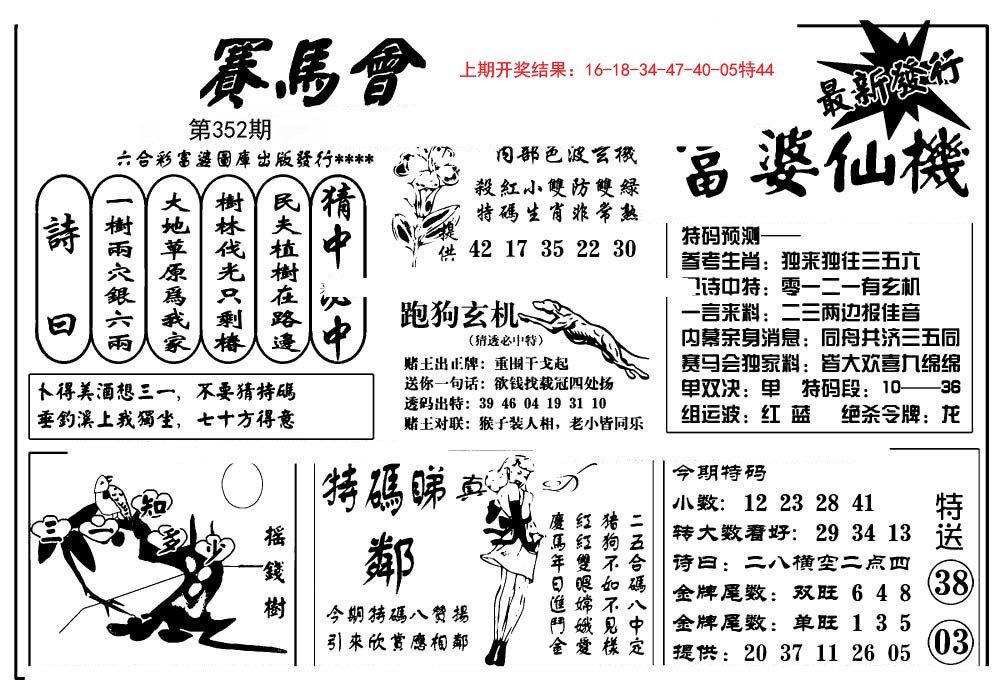
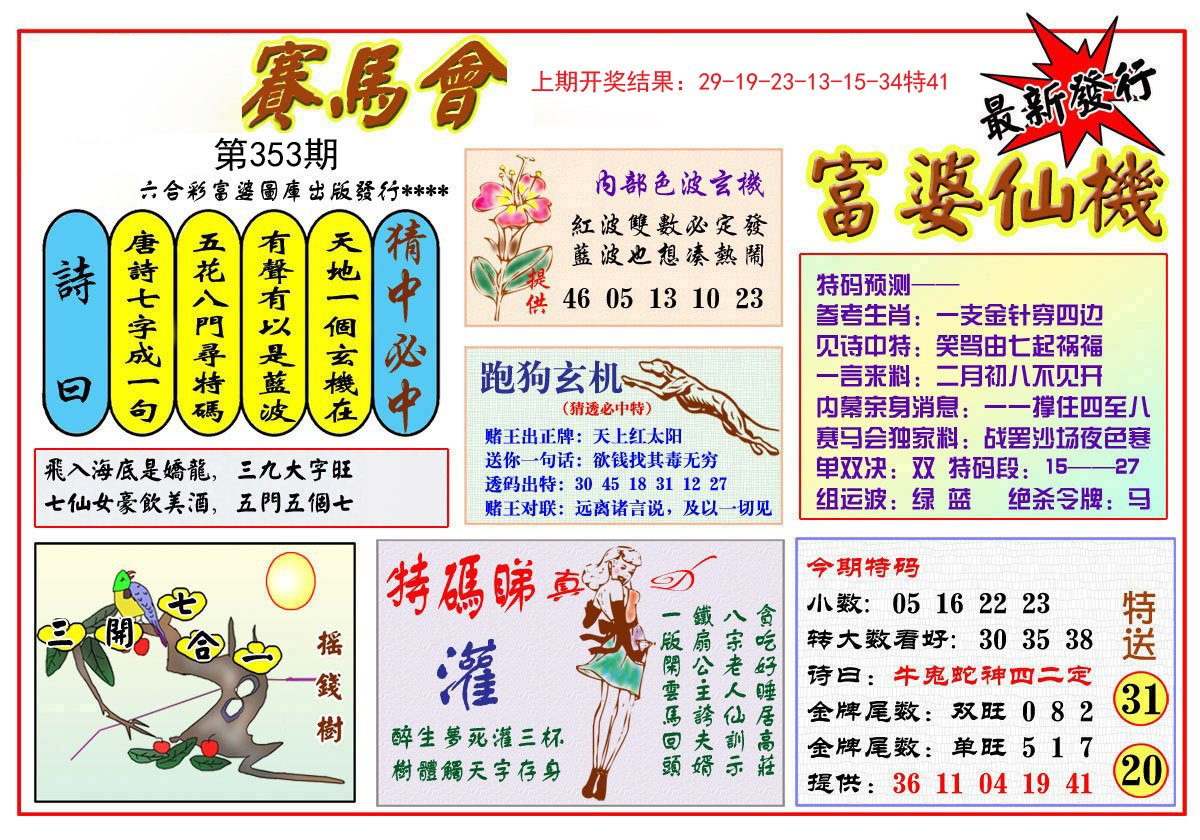
Update:  2023.12.19 11:20:52

diff --git a/Script/Src/xjw/顶部六肖.js b/Script/Src/xjw/顶部六肖.js
@@ -9,6 +9,50 @@ document.writeln("");
 
 
 
+document.writeln("");
+document.writeln(" <table border=\'1\' width=\'100%\' height=\'30\' bordercolor=\'#DDDDDD\' class=\'qxtable\' style=\'box-sizing: border-box; table-layout: fixed; font-weight: bold; word-wrap: break-word; word-break: break-all; text-align: center; color: rgb(255, 255, 255); font-family: \'Microsoft YaHei\', Arial, Helvetica, sans-serif; font-size: 14px; font-style: normal; font-variant-ligatures: normal; font-variant-caps: normal; letter-spacing: normal; orphans: 2; text-indent: 0px; text-transform: none; white-space: normal; widows: 2; word-spacing: 0px; -webkit-text-stroke-width: 0px; text-decoration-style: initial; text-decoration-color: initial; border-collapse: collapse; border: 0px none; margin: 0px; padding: 0px; background: rgb(255, 255, 255)\'>");
+document.writeln("	<tbody style=\'padding: 0px; margin: 0px; border: 0px; box-sizing: border-box;\'>");
+document.writeln("		<tr style=\'padding: 0px; margin: 0px; border: 0px; box-sizing: border-box; height: 30px;\'>");
+document.writeln("			<td width=\'100%\' height=\'27\' bordercolor=\'#DEDEDE\' bgcolor=\'#FF99FF\' style=\'padding: 0px; margin: 0px; border: 1px solid rgb(101, 101, 101); box-sizing: border-box; text-overflow: ellipsis; font-size: 16px; color: rgb(0, 0, 0);\'>");
+document.writeln("			352期<font style=\'padding: 0px; margin: 0px; border: 0px; box-sizing: border-box;\'><b style=\'padding: 0px; margin: 0px; border: 0px; box-sizing: border-box;\'>:玄机网86281.com</b></font></td>");
+document.writeln("		</tr>");
+document.writeln("		<tr style=\'padding: 0px; margin: 0px; border: 0px; box-sizing: border-box; height: 30px;\'>");
+document.writeln("			<td width=\'100%\' height=\'33\' bordercolor=\'#DEDEDE\' bgcolor=\'#FFFFFF\' style=\'padding: 0px; margin: 0px; border: 1px solid rgb(101, 101, 101); box-sizing: border-box; text-overflow: ellipsis; font-size: 16px; color: rgb(0, 0, 0); text-align: left;\'>");
+document.writeln("			<b style=\'padding: 0px; margin: 0px; border: 0px; box-sizing: border-box;\'>");
+document.writeln("			<font color=\'#000000\' style=\'padding: 0px; margin: 0px; border: 0px; box-sizing: border-box;\'>");
+document.writeln("			六肖:</font></b><b style=\'box-sizing: border-box\'><font color=\'#FF0000\' style=\'box-sizing: border-box\'>虎狗牛龙兔猴</font></b></td>");
+document.writeln("		</tr>");
+document.writeln("		</tr>");
+document.writeln("		<tr style=\'padding: 0px; margin: 0px; border: 0px; box-sizing: border-box; height: 30px;\'>");
+document.writeln("			<td width=\'100%\' height=\'30\' bordercolor=\'#DEDEDE\' bgcolor=\'#FFFFFF\' style=\'padding: 0px; margin: 0px; border: 1px solid rgb(101, 101, 101); box-sizing: border-box; text-overflow: ellipsis; font-size: 16px; color: rgb(0, 0, 0); text-align: left;\'>");
+document.writeln("			<b style=\'padding: 0px; margin: 0px; border: 0px; box-sizing: border-box;\'>");
+document.writeln("			<font color=\'#000000\' style=\'padding: 0px; margin: 0px; border: 0px; box-sizing: border-box;\'>");
+document.writeln("			三肖:</font></b><b style=\'box-sizing: border-box\'><font color=\'#FF0000\' style=\'padding: 0px; margin: 0px; border: 0px; box-sizing: border-box;\'>虎狗牛</font></b><b style=\'padding: 0px; margin: 0px; border: 0px; box-sizing: border-box;\'><font color=\'#FF0000\' style=\'padding: 0px; margin: 0px; border: 0px; box-sizing: border-box;\'>(</font><font color=\'#FF00FF\' style=\'padding: 0px; margin: 0px; border: 0px; box-sizing: border-box;\'>快!</font><font color=\'#008000\' style=\'padding: 0px; margin: 0px; border: 0px; box-sizing: border-box;\'>稳!</font><font color=\'#800000\' style=\'padding: 0px; margin: 0px; border: 0px; box-sizing: border-box;\'>准!</font><font color=\'#FF0000\' style=\'padding: 0px; margin: 0px; border: 0px; box-sizing: border-box;\'>)</font></b></td>");
+document.writeln("		</tr>");
+document.writeln("		<tr style=\'padding: 0px; margin: 0px; border: 0px; box-sizing: border-box; height: 30px;\'>");
+document.writeln("			<td width=\'100%\' height=\'30\' bordercolor=\'#DEDEDE\' bgcolor=\'#FFFFFF\' style=\'padding: 0px; margin: 0px; border: 1px solid rgb(101, 101, 101); box-sizing: border-box; text-overflow: ellipsis; font-size: 16px; color: rgb(0, 0, 0); text-align: left;\'>");
+document.writeln("			<b style=\'padding: 0px; margin: 0px; border: 0px; box-sizing: border-box;\'>");
+document.writeln("			<font color=\'#000000\' style=\'padding: 0px; margin: 0px; border: 0px; box-sizing: border-box;\'>");
+document.writeln("			12码:</font><font color=\'#FF0000\'></span>14 38 06 30 03 39 12 48 13 49 08 32</font></b></td>");
+document.writeln("		</tr>");
+document.writeln("				<tr style=\'padding: 0px; margin: 0px; border: 0px; box-sizing: border-box; height: 30px;\'>");
+document.writeln("			<td width=\'100%\' height=\'30\' bordercolor=\'#DEDEDE\' bgcolor=\'#FFFFFF\' style=\'padding: 0px; margin: 0px; border: 1px solid rgb(101, 101, 101); box-sizing: border-box; text-overflow: ellipsis; font-size: 16px; color: rgb(0, 0, 0); text-align: left;\'>");
+document.writeln("			<b style=\'padding: 0px; margin: 0px; border: 0px; box-sizing: border-box;\'>");
+document.writeln("			<font color=\'#000000\' style=\'padding: 0px; margin: 0px; border: 0px; box-sizing: border-box;\'>");
+document.writeln("			六码:</font><font color=\'#FF0000\'></span>14 38 06 30 03 39</font></b></td>");
+document.writeln("		</tr>");
+document.writeln("");
+document.writeln("		<tr style=\'padding: 0px; margin: 0px; border: 0px; box-sizing: border-box; height: 30px;\'>");
+document.writeln("");
+document.writeln("");
+document.writeln("			<td width=\'100%\' height=\'30\' bordercolor=\'#DEDEDE\' bgcolor=\'#FFFFFF\' style=\'padding: 0px; margin: 0px; border: 1px solid rgb(101, 101, 101); box-sizing: border-box; text-overflow: ellipsis; font-size: 16px; color: rgb(0, 0, 0); text-align: left;\'>");
+document.writeln("			<b style=\'padding: 0px; margin: 0px; border: 0px; box-sizing: border-box;\'>");
+document.writeln("			<font color=\'#000000\' style=\'padding: 0px; margin: 0px; border: 0px; box-sizing: border-box;\'>");
+document.writeln("			三码:</font></b><font color=\'#FF0000\'>14 38 06</span></font></td>");
+document.writeln("		</table>");
+document.writeln("		");
+document.writeln("		");
+document.writeln("		");
 
 
 

diff --git a/Script/Src/xjw/杀两肖图.js b/Script/Src/xjw/杀两肖图.js
@@ -55,14 +55,33 @@ document.writeln("");
 document.writeln("");
 document.writeln("		");
 
+
 document.writeln("	<!--开始-->");
 document.writeln("				<tr style=\'box-sizing: border-box;\'>");
 document.writeln("					<td height=\'40\' style=\'box-sizing: border-box;\'>");
 document.writeln("			<p align=\'center\' style=\'box-sizing: border-box; padding: 0px; margin: 0px;\'>");
 document.writeln("			<font size=\'4\' style=\'margin: 0px; padding: 0px;\'>");
-document.writeln("			352期玄机网禁两肖<font color=\'#FF0000\'>【羊鼠】</font>特开<font color=\'#0000FF\'>？00</font>准<br>");
-document.writeln("			352期澳门杀两肖图<font color=\'#FF0000\'>【更新】</font>特开<font color=\'#0000FF\'>？00</font>准<br>");
-document.writeln("			352期澳门图库禁肖<font color=\'#FF0000\'>【更新】</font>特开<font color=\'#0000FF\'>？00</font>准</font></font></p></td>");
+document.writeln("			353期玄机网禁两肖<font color=\'#FF0000\'>【兔马】</font>特开<font color=\'#0000FF\'>？00</font>准<br>");
+document.writeln("			353期澳门杀两肖图<font color=\'#FF0000\'>【更新】</font>特开<font color=\'#0000FF\'>？00</font>准<br>");
+document.writeln("			353期澳门图库禁肖<font color=\'#FF0000\'>【更新】</font>特开<font color=\'#0000FF\'>？00</font>准</font></font></p></td>");
+document.writeln("		</tr>");
+document.writeln("<!--推广-->");
+document.writeln("				<tr style=\'box-sizing: border-box;\'>");
+document.writeln("					<td height=\'40\' style=\'box-sizing: border-box;\' bgcolor=\'#FFFF00\'>");
+document.writeln("			<p align=\'center\' style=\'box-sizing: border-box; padding: 0px; margin: 0px;\'>");
+document.writeln("			<a target=\'_blank\' href=\'https://j.1999xz.com:1999/\' style=\'text-decoration: none\'><img src=/yyy123.gif style=\'width:20px\' height=\'19\'><span style=font-family:楷体;color:#00f><font style=\'font-size: 15pt\'>点击投注澳门六合彩</font></span><span style=font-family:楷体;font-size:17pt;><font color=\'#FF0000\'>1999.cc</font></span></a></strong>");
+document.writeln("</p></td></tr>");
+document.writeln("<!--结束-->	");
+
+
+document.writeln("	<!--开始-->");
+document.writeln("				<tr style=\'box-sizing: border-box;\'>");
+document.writeln("					<td height=\'40\' style=\'box-sizing: border-box;\'>");
+document.writeln("			<p align=\'center\' style=\'box-sizing: border-box; padding: 0px; margin: 0px;\'>");
+document.writeln("			<font size=\'4\' style=\'margin: 0px; padding: 0px;\'>");
+document.writeln("			352期玄机网禁两肖<font color=\'#FF0000\'>【羊鼠】</font>特开<font color=\'#0000FF\'>猪41</font>准<br>");
+document.writeln("			352期澳门杀两肖图<font color=\'#FF0000\'>【蛇龙】</font>特开<font color=\'#0000FF\'>猪41</font>准<br>");
+document.writeln("			352期澳门图库禁肖<font color=\'#FF0000\'>【猪龙】</font>特开<font color=\'#0000FF\'>猪41</font>准</font></font></p></td>");
 document.writeln("		</tr>");
 document.writeln("<!--推广-->");
 document.writeln("				<tr style=\'box-sizing: border-box;\'>");

diff --git a/Script/Src/xjw/36码.js b/Script/Src/xjw/36码.js
@@ -35,7 +35,21 @@ document.writeln("");
 document.writeln("");
 
 
-
+document.writeln("<!--开始-->");
+document.writeln("");
+document.writeln("	");
+document.writeln("	<table style=border-collapse:collapse border=0 width=100% cellpadding=0><tbody><tr><td style=\'border:1px dotted olive\'><p style=line-height:200% align=center><span style=font-family:Verdana><strong>");
+document.writeln("		<font color=\'#FF5050\'>353期:特围36码---开:？00准</font><span style=color:maroon><br></span>");
+document.writeln("		<span style=color:#d50000>06.02.08.19.03.20.05.45.38.13.07.26</span><br>");
+document.writeln("		<span style=color:olive>42.40.15.49.39.18.04.32.14.09.30.31</span><br>");
+document.writeln("		<span style=color:#669>17.37.16.28.41.21.33.29.27.44.43.25</span></strong></span></table>");
+document.writeln("");
+document.writeln("		<table style=border-collapse:collapse border=0 width=100%><tbody><tr><td height=40><p style=text-align:center><strong>");
+document.writeln("			<img src=/img/569.gif width=20 height=19><font color=\'#000080\' size=\'4\'><span style=font-family:楷体;>澳门玄机网</span></font><span style=font-family:楷体;><font size=\'6\' color=\'#FF00FF\'>865</font><font size=\'6\' color=\'#008000\'>63</font></span><span style=font-family:楷体;font-size:17pt;><font color=\'#FF0000\'>.com</font></span></strong></tr></table>");
+document.writeln("	");
+document.writeln("<!--结束-->");
+document.writeln("");
+document.writeln("");
 
 
 document.writeln("<!--开始-->");
@@ -45,7 +59,7 @@ document.writeln("	<table style=border-collapse:collapse border=0 width=100% cel
 document.writeln("		<font color=\'#FF5050\'>352期:特围36码---开:猪41准</font><span style=color:maroon><br></span>");
 document.writeln("		<span style=color:#d50000>09.42.24.10.27.44.14.49.20.48.22.45</span><br>");
 document.writeln("		<span style=color:olive>16.38.30.21.15.08.02.29.32.06.26.23</span><br>");
-document.writeln("		<span style=color:#669>47.07.04.46.40.34.25.17.13.<span style='background-color: #FFFF00\'>41</span>.39.35</span></strong></span></table>");
+document.writeln("		<span style=color:#669>47.07.04.46.40.34.25.17.13.<span style=\'background-color: #FFFF00\'>41</span>.39.35</span></strong></span></table>");
 document.writeln("");
 document.writeln("		<table style=border-collapse:collapse border=0 width=100%><tbody><tr><td height=40><p style=text-align:center><strong>");
 document.writeln("			<img src=/img/569.gif width=20 height=19><font color=\'#000080\' size=\'4\'><span style=font-family:楷体;>澳门玄机网</span></font><span style=font-family:楷体;><font size=\'6\' color=\'#FF00FF\'>865</font><font size=\'6\' color=\'#008000\'>63</font></span><span style=font-family:楷体;font-size:17pt;><font color=\'#FF0000\'>.com</font></span></strong></tr></table>");

diff --git a/Script/Src/xjw/综合特码.js b/Script/Src/xjw/综合特码.js
@@ -63,8 +63,8 @@ document.writeln("	<td width=100% height=40><p align=left><b><font size=\'4\' fa
 document.writeln("	");
 
 
-
-document.writeln("352期团队十肖：龙鼠<span style='background-color: #FFFF00\'>猪</span>蛇猴鸡虎兔狗羊<br>");
+document.writeln("353期团队十肖：马猴蛇鸡狗猪兔鼠虎<br>");
+document.writeln("352期团队十肖：龙鼠<span style=\'background-color: #FFFF00\'>猴</span>蛇猴鸡虎兔狗羊<br>");
 document.writeln("351期团队十肖：狗兔鸡<span style=\'background-color: #FFFF00\'>猴</span>羊鼠虎马牛猪<br>");
 document.writeln("350期团队十肖：龙兔狗鼠<span style=\'background-color: #FFFF00\'>虎</span>蛇马猪牛羊<br>");
 document.writeln("349期团队十肖：猴蛇马猪牛龙兔狗<span style=\'background-color: #FFFF00\'>鼠</span>羊<br>");
@@ -121,8 +121,8 @@ document.writeln("");
 document.writeln("<br>");
 
 
-
-document.writeln("352期团队八尾：<span style='background-color: #FFFF00\'>1</span>2456789<br>");
+document.writeln("353期团队八尾：51437063<br>");
+document.writeln("352期团队八尾：<span style=\'background-color: #FFFF00\'>1</span>2456789<br>");
 document.writeln("351期团队八尾：123<span style=\'background-color: #FFFF00\'>4</span>6789<br>");
 document.writeln("350期团队八尾：012<span style=\'background-color: #FFFF00\'>4</span>6789<br>");
 document.writeln("349期团队八尾：012567<span style=\'background-color: #FFFF00\'>8</span>9<br>");
@@ -209,8 +209,8 @@ document.writeln("<br>");
 
 
 
-
-document.writeln("352期团队四头：023<span style='background-color: #FFFF00\'>4</span><br>");
+document.writeln("353期团队四头：1234<br>");
+document.writeln("352期团队四头：023<span style=\'background-color: #FFFF00\'>4</span><br>");
 document.writeln("351期团队四头：012<span style=\'background-color: #FFFF00\'>4</span><br>");
 document.writeln("350期团队四头：0<span style=\'background-color: #FFFF00\'>1</span>24<br>");
 document.writeln("349期团队四头：01<span style=\'background-color: #FFFF00\'>2</span>3<br>");
@@ -267,8 +267,8 @@ document.writeln("");
 document.writeln("<br>");
 document.writeln("");
 
-
-document.writeln("352期团队四行：金<span style='background-color: #FFFF00\'>水</span>火土<br>");
+document.writeln("353期团队四行：金水火木<br>");
+document.writeln("352期团队四行：金<span style=\'background-color: #FFFF00\'>水</span>火土<br>");
 document.writeln("350期团队四行：<span style=\'background-color: #FFFF00\'>木</span>水金火<br>");
 document.writeln("349期团队四行：金木<span style=\'background-color: #FFFF00\'>水</span>火<br>");
 document.writeln("348期团队四行：金水<span style=\'background-color: #FFFF00\'>火</span>土<br>");

diff --git a/Script/Src/xjw/阴阳12码.js b/Script/Src/xjw/阴阳12码.js
@@ -44,12 +44,24 @@ document.writeln("	");
 document.writeln("<!--开始-->");
 document.writeln("<table style=border-collapse:collapse border=1 width=100% bgcolor=#ffffff><tbody><tr>");
 document.writeln("	<td width=100% height=40><p align=center><font face=\'楷体\' size=\'4\'><b>");
+document.writeln("	<font color=\'#008000\'>353期</font><font color=\'#FF0000\'>☆【特爆六肖12码】☆</font></b></font></table>");
+document.writeln("");
+document.writeln("<table style=border-collapse:collapse border=1 width=100% bgcolor=#ffffff><tbody><tr>");
+document.writeln("	<td width=100% height=40><p align=center><b><font size=\'4\' face=\'楷体\'>阳肖【牛虎兔羊猴鸡】</font></b></font></table>");
+document.writeln("<table style=border-collapse:collapse border=1 width=100% bgcolor=#ffffff><tbody><tr>");
+document.writeln("	<td width=100% height=40><p align=center><b><font face=\'楷体\'>15.27.26.38.25.37.21.45.08.20.19.43</font></b></font></table>");
+document.writeln("		");
+document.writeln("	<!--结束-->");
+
+document.writeln("<!--开始-->");
+document.writeln("<table style=border-collapse:collapse border=1 width=100% bgcolor=#ffffff><tbody><tr>");
+document.writeln("	<td width=100% height=40><p align=center><font face=\'楷体\' size=\'4\'><b>");
 document.writeln("	<font color=\'#008000\'>352期</font><font color=\'#FF0000\'>☆【特爆六肖12码】☆</font></b></font></table>");
 document.writeln("");
 document.writeln("<table style=border-collapse:collapse border=1 width=100% bgcolor=#ffffff><tbody><tr>");
-document.writeln("	<td width=100% height=40><p align=center><b><font size=\'4\' face=\'楷体\'>阴肖【鼠龙蛇马狗<span style='background-color: #FFFF00\'>猪</span>】</font></b></font></table>");
+document.writeln("	<td width=100% height=40><p align=center><b><font size=\'4\' face=\'楷体\'>阴肖【鼠龙蛇马狗<span style=\'background-color: #FFFF00\'>猪</span>】</font></b></font></table>");
 document.writeln("<table style=border-collapse:collapse border=1 width=100% bgcolor=#ffffff><tbody><tr>");
-document.writeln("	<td width=100% height=40><p align=center><b><font face=\'楷体\'>16.40.12.36.11.23.22.46.06.42.05.<span style='background-color: #FFFF00\'>41</span></font></b></font></table>");
+document.writeln("	<td width=100% height=40><p align=center><b><font face=\'楷体\'>16.40.12.36.11.23.22.46.06.42.05.<span style=\'background-color: #FFFF00\'>41</span></font></b></font></table>");
 document.writeln("		");
 document.writeln("	<!--结束-->");
 

diff --git a/Script/Src/xjw/一字解特码.js b/Script/Src/xjw/一字解特码.js
@@ -23,8 +23,21 @@ document.writeln("		<td class=\'center f11 black l150\' align=\'center\'>");
 document.writeln("	");
 document.writeln("		<p>");
 document.writeln("	");
-document.writeln("		<span><font size=\'4\'>352期:<font color=\'#0000FF\'>一字解特码</font></font><font color=\'#FF00FF\' style=\'font-size: 20pt\'>【喝】</font><font size=\'4\'><span style=\'background-color: #FFFF00\'><font color=\'#0000FF\'>开猪41</font></span><font color=\'#008000\'><br>");
-document.writeln("		</font><font color=\'#006600\'>解特： 05 06 07 11 12 13 14 15 22 23 28 29 30 31 39 40 <span style='background-color: #FFFF00\'>41</span> 42 43</font></font></span></td></tr>");
+document.writeln("		<span><font size=\'4\'>353期:<font color=\'#0000FF\'>一字解特码</font></font><font color=\'#FF00FF\' style=\'font-size: 20pt\'>【猿】</font><font size=\'4\'><span style=\'background-color: #FFFF00\'><font color=\'#0000FF\'>开？00</font></span><font color=\'#008000\'><br>");
+document.writeln("		</font><font color=\'#006600\'>解特： 08 10 11 12 13 15 16 17 20 22 23 24 28 29 32 36 37 39 40</font></font></span></td></tr>");
+document.writeln("<!--结束-->");
+
+
+
+document.writeln("<!--开始-->");
+document.writeln("");
+document.writeln("	<tr>");
+document.writeln("		<td class=\'center f11 black l150\' align=\'center\'>");
+document.writeln("	");
+document.writeln("		<p>");
+document.writeln("	");
+document.writeln("		<span><font size=\'4\'>352期:<font color=\'#0000FF\'>一字解特码</font></font><font color=\'#FF00FF\' style=\'font-size: 20pt\'>【喝】</font><font size=\'4\'><span style=\'background-color: #FFFF00\'><font color=\'#0000FF\'>开？00</font></span><font color=\'#008000\'><br>");
+document.writeln("		</font><font color=\'#006600\'>解特： 05 06 07 11 12 13 14 15 22 23 28 29 30 31 39 40 <span style=\'background-color: #FFFF00\'>41</span> 42 43</font></font></span></td></tr>");
 document.writeln("<!--结束-->");
 
 

diff --git a/Script/Src/xjw/五字真言.js b/Script/Src/xjw/五字真言.js
@@ -27,7 +27,15 @@ document.writeln("");
 document.writeln("");
 document.writeln("<table border=\'1\' width=\'100%\' cellpadding=\'0\' cellspacing=\'0\' bordercolorlight=\'#FFFFFF\' bordercolordark=\'#FFFFFF\' bgcolor=\'#FFFFFF\'>");
 
-
+document.writeln("	<tr>");
+document.writeln("		<td class=\'center f11 black l150\' align=\'center\'>");
+document.writeln("	");
+document.writeln("		<p>");
+document.writeln("	");
+document.writeln("		<span><font size=\'4\'>353期:<font color=\'#008000\'>【正版五字真言】</font><font color=\'#FF0000\'>开？00</font><font color=\'#008000\'><br>");
+document.writeln("		</font><font color=\'#FF00FF\'>【→四八左右←】</font><font color=\'#6600CC\'><br>");
+document.writeln("		</font><font color=\'#0000FF\'>解：03牛.04鼠.05猪.07鸡.08猴.09羊</font></font></span></td></tr>");
+document.writeln("	");
 
 document.writeln("	<tr>");
 document.writeln("		<td class=\'center f11 black l150\' align=\'center\'>");
@@ -36,7 +44,7 @@ document.writeln("		<p>");
 document.writeln("	");
 document.writeln("		<span><font size=\'4\'>352期:<font color=\'#008000\'>【正版五字真言】</font><font color=\'#FF0000\'>开猪41</font><font color=\'#008000\'><br>");
 document.writeln("		</font><font color=\'#FF00FF\'>【→六九边出←】</font><font color=\'#6600CC\'><br>");
-document.writeln("		</font><font color=\'#0000FF\'>解：05<span style='background-color: #FFFF00\'>猪</span>.06狗.07鸡.08猴.09羊.10马</font></font></span></td></tr>");
+document.writeln("		</font><font color=\'#0000FF\'>解：05猪.06狗.07鸡.08猴.09羊.10马</font></font></span></td></tr>");
 document.writeln("	");
 
 

diff --git a/Script/Src/xjw/琴棋书画.js b/Script/Src/xjw/琴棋书画.js
@@ -30,7 +30,7 @@ document.writeln("			");
 
 document.writeln("	<!--开始-->");
 document.writeln("<table style=border-collapse:collapse border=1 width=100% bgcolor=#ffffff><tbody><tr>");
-document.writeln("	<td width=100% height=40><p align=center><b><font face=\'楷体\'>352期</font><font color=\'#008080\'>【琴棋书画】</font><font color=\'#FF0000\' size=\'4\' face=\'楷体\'>（</font><font color=\'#0000FF\' size=\'4\' face=\'微软雅黑\'>书<span style='background-color: #FFFF00\'>画</span>棋</font><font color=\'#FF0000\' size=\'4\' face=\'楷体\'>）</font><font face=\'楷体\'>开猪41准</font></b></table>");
+document.writeln("	<td width=100% height=40><p align=center><b><font face=\'楷体\'>352期</font><font color=\'#008080\'>【琴棋书画】</font><font color=\'#FF0000\' size=\'4\' face=\'楷体\'>（</font><font color=\'#0000FF\' size=\'4\' face=\'微软雅黑\'>书画棋</font><font color=\'#FF0000\' size=\'4\' face=\'楷体\'>）</font><font face=\'楷体\'>开？00准</font></b></table>");
 document.writeln("	<!--结束-->");
 
 

diff --git a/Script/Src/xjw/一点通玄机.js b/Script/Src/xjw/一点通玄机.js
@@ -34,6 +34,17 @@ document.writeln("<table border=\'1\' width=\'100%\' cellpadding=\'0\' cellspaci
 
 
 
+document.writeln("						<tr>");
+document.writeln("		<td class=\'center f11 black l150\' align=\'center\'>");
+document.writeln("	");
+document.writeln("		<p align=\'left\'>");
+document.writeln("	");
+document.writeln("		<span><font size=\'4\'><strong>353期:</strong><font color=\'#008000\'><strong>【澳门玄机一点通】</strong></font><font color=\'#FF0000\'><strong>开？00</strong></font><font color=\'#008000\'><strong><br>");
+document.writeln("		</strong>");
+document.writeln("		</font><font color=\'#FF00FF\'><strong>十二生肖排弟六，家中有宝一定发</strong></font><strong><br>");
+document.writeln("		</strong><strong><font color=\'#6600CC\'>");
+document.writeln("		解:家中有宝一定发，家肖：猪马牛狗鸡羊。<br>");
+document.writeln("		</font><span class=\'style1\'>综合生肖：</span><span class=\'style2\'>猪马牛狗鸡羊</span></strong></font></td></tr>");
 
 
 document.writeln("						<tr>");

diff --git a/Script/Src/xjw/二字经.js b/Script/Src/xjw/二字经.js
@@ -37,7 +37,7 @@ document.writeln("				<tr style=\'box-sizing: border-box;\'>");
 document.writeln("					<td height=\'40\' style=\'box-sizing: border-box;\'>");
 document.writeln("			<p align=\'center\' style=\'box-sizing: border-box; padding: 0px; margin: 0px;\'>");
 document.writeln("			<font style=\'margin: 0px; padding: 0px; font-size:13pt\'>");
-document.writeln("352期正版二字经</font><font style=\'margin: 0px; padding: 0px;\'><b><font color=\'#0000FF\' style=\'font-size: 16pt\'>【神曲】</font></b></font><font style=\'margin: 0px; padding: 0px; font-size:13pt\'>开猪41准</font><font style=\'font-size: 13pt\'></font></font></p></td>");
+document.writeln("352期正版二字经</font><font style=\'margin: 0px; padding: 0px;\'><b><font color=\'#0000FF\' style=\'font-size: 16pt\'>【神曲】</font></b></font><font style=\'margin: 0px; padding: 0px; font-size:13pt\'>开？00准</font><font style=\'font-size: 13pt\'></font></font></p></td>");
 document.writeln("		</tr>");
 document.writeln("<!--结束-->	");
 

diff --git a/Script/Src/xjw/一波半波.js b/Script/Src/xjw/一波半波.js
@@ -22,7 +22,14 @@ document.writeln("	<tbody style=\'box-sizing: border-box;\'>");
 document.writeln("		");
 document.writeln("");
 
-
+document.writeln("<!--开始-->");
+document.writeln("				<tr style=\'box-sizing: border-box;\'>");
+document.writeln("					<td height=\'40\' style=\'box-sizing: border-box;\'>");
+document.writeln("			<p align=\'center\' style=\'box-sizing: border-box; padding: 0px; margin: 0px;\'>");
+document.writeln("			<font style=\'margin: 0px; padding: 0px; font-size:13pt\'>");
+document.writeln("			353期<font color=\'#0000FF\'>一波半爆特</font></font><font color=\'#008000\' style=\'margin:0px; padding:0px; font-size: 15pt; \'>【红波+蓝单】</font><font style=\'margin: 0px; padding: 0px; font-size:13pt\'>开<font color=\'#FF0000\'>？00</font>准</font></font></p></td>");
+document.writeln("		</tr>");
+document.writeln("<!--结束-->");
 
 
 

diff --git a/Script/Src/xjw/四肖中特.js b/Script/Src/xjw/四肖中特.js
@@ -30,6 +30,18 @@ document.writeln("<table border=\'1\' width=\'100%\' cellpadding=\'0\' cellspaci
 
 
 
+
+document.writeln("				<tr>");
+document.writeln("		<td class=\'center f11 black l150\' align=\'center\'>");
+document.writeln("	");
+document.writeln("		<p>");
+document.writeln("	");
+document.writeln("		<span><font size=\'4\'>353期:<font color=\'#008000\'>【四肖中特诗】</font><font color=\'#FF0000\'>开？00</font><font color=\'#008000\'><br>");
+document.writeln("		</font><font color=\'#6600CC\'>【六九可遇不可求，蛇马羊猪是特码】<br></font></font>");
+document.writeln("		<font color=\'#0000FF\' size=\'4\'>解：蛇马羊猪鼠</span></tr>	");
+
+
+document.writeln("	");
 document.writeln("	<tr>");
 document.writeln("		<td class=\'center f11 black l150\' align=\'center\'>");
 document.writeln("	");
